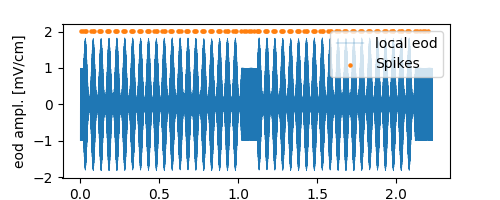
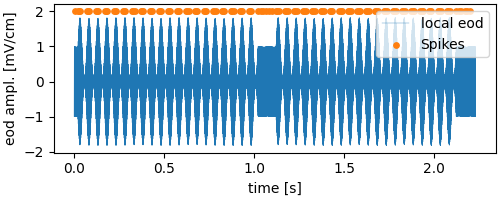
[docs] fixing? links

diff --git a/docs/introduction.md b/docs/introduction.md
@@ -12,7 +12,7 @@
 
 The *Dataset* class is the linchpin of the exploratory functionality offered by **rlxnix**. Upon creation of a Dataset instance, it will crawl through the file and index it, **this may take a little while**.
 
-To get an initial overview, one can plot the timeline which shows which *RePro* was run when and illustrated the stimulus segments within the RePro runs. 
+To get an initial overview, one can plot the timeline which shows which *RePro* was run when and illustrated the stimulus segments within the RePro runs.
 
 ```python
 import rlxnix as rlx
@@ -54,28 +54,6 @@ print(dataset.metadata)
   'Mode': (['Simulation'], ''),
   'Software': (['RELACS'], ''),
   'Software version': (['0.9.8'], '')},
- 'Cell': {'CellType': (['P-unit'], ''),
-  'Structure': (['Nerve'], ''),
-  'Cell properties': {'Firing Rate1': ([59.539170506912434], 'Hz'),
-   'P-Value1': ([0.07436559827719443], ''),
-   'X Position': ([0.0], 'mm'),
-   'Y Position': ([0.0], 'mm')}},
- 'Subject': {'Species': (['Apteronotus leptorhynchus'], ''),
-  'Sex': (['unknown'], ''),
-  'Size': ([18.0], 'cm'),
-  'Weight': ([20.0], 'g'),
-  'Identifier': (['2020lepto25'], ''),
-  'EOD Frequency': ([800.6278694213264], 'Hz'),
-  'Snout Position': ([0.0], 'mm'),
-  'Tail Position': ([0.0], 'mm')},
- 'Setup': {'Identifier': (['Setup1'], ''),
-  'Maintainer': (['Your name'], ''),
-  'Creator': (['Whoever'], ''),
-  'Location': (['virtual'], ''),
-  'Lab': (['XYZ-Lab'], ''),
-  'Institute': (['Your institute'], ''),
-  'University': (['Your university'], ''),
-  'Address': (["Your institute's address"], '')},
 
         ...
 
@@ -224,7 +202,7 @@ sam_eod, sam_time = sam.trace_data("LocalEOD-1")
 Let's plot the data...
 
 ```python
-fig, axis = plt.subplots(figsize=(5, 2))
+fig, axis = plt.subplots(figsize=(5, 2), constrained_layout=True)
 axis.plot(sam_time, sam_eod, lw=0.25, label="local eod")
 axis.scatter(sam_spike_times, np.ones_like(sam_spike_times) * 1.1 * np.max(sam_eod), color="tab:orange", s=15, label="Spikes")
 axis.set_xlabel("time [s]")
@@ -235,7 +213,7 @@ plt.show()
 
 ![SAM RePro](./images/sam_activity.png)
 
-As we can see during the RePro data contains several segments some, at which the *local eod* amplitude is stable, and others in which it is (sinusoidally) modulated. The latter are the times in which a stimulus was active.
+The SAM RePro ran for a little more than 2 seconds. In this time, we observe several distinct segments in the data at which the *local eod* amplitude is stable, and others in which it is (sinusoidally) modulated. The latter are the times in which a stimulus was active.
 
 ## ``rlxnix.base.Stimulus`` class represents stimulus segments
 
@@ -276,7 +254,7 @@ To read the data we can apply exactly the same methods as before (for those inte
 sam_stim_spike_times, _ = stimulus.trace_data("Spikes-1")
 sam_stim_eod, sam_stim_time = stimulus.trace_data("LocalEOD-1")
 
-fig, axis = plt.subplots(figsize=(5, 2))
+fig, axis = plt.subplots(figsize=(5, 2), constrained_layout=True)
 axis.plot(sam_stim_time, sam_stim_eod, lw=0.25, label="local eod")
 axis.scatter(sam_stim_spike_times, np.ones_like(sam_stim_spike_times) * 1.1 * np.max(sam_stim_eod), color="tab:orange", s=15, label="Spikes")
 axis.set_xlabel("time [s]")
